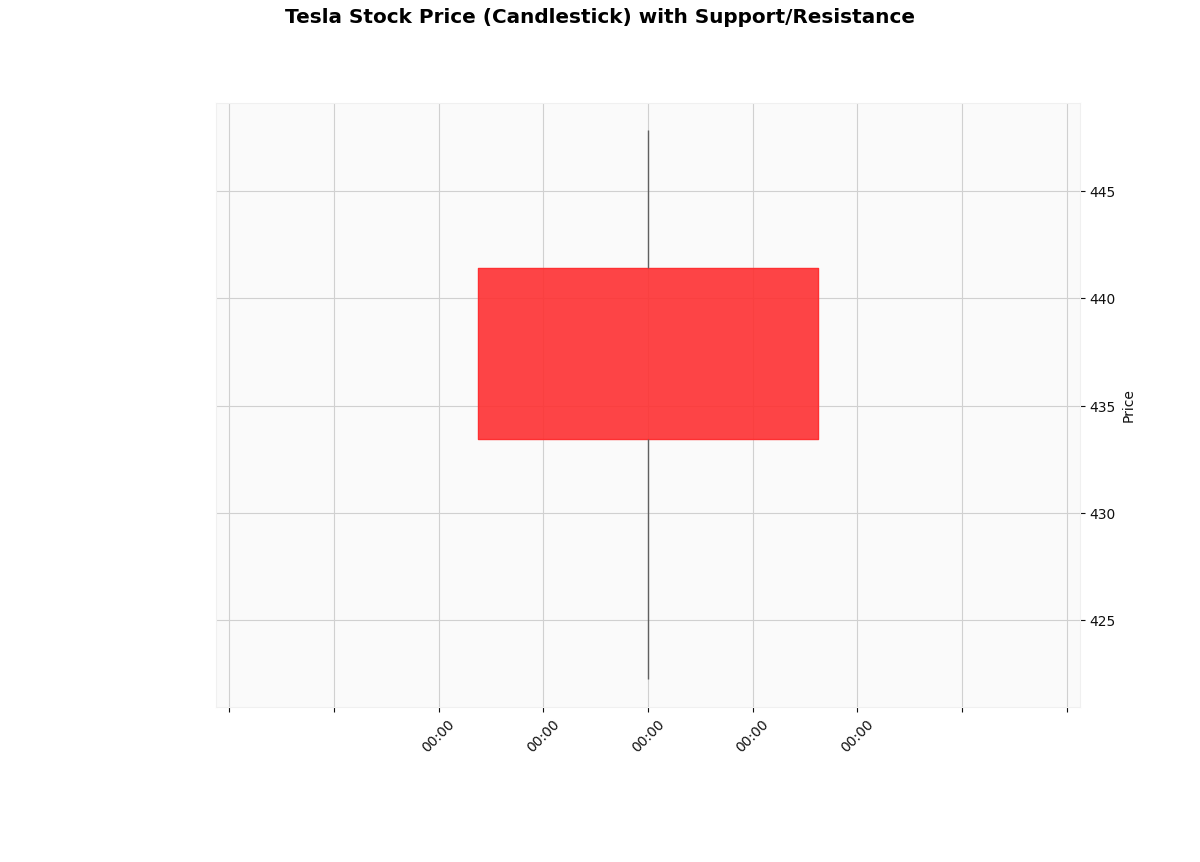
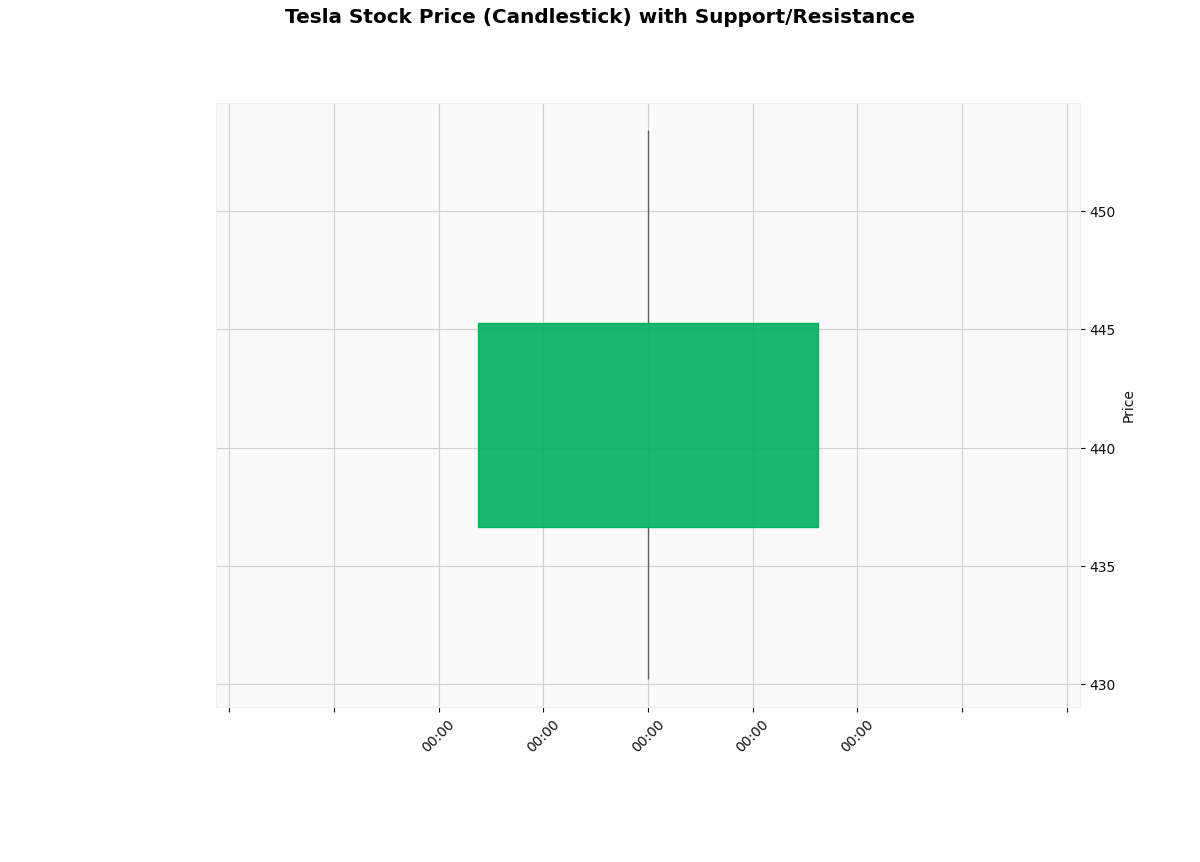
Daily update: Tesla stock chart and news

diff --git a/README.md b/README.md
@@ -69,7 +69,8 @@ For automated daily updates on GitHub, you need to set your API keys as **GitHub
 
 ## Tesla Stock Chart
 
-![Tesla Stock Chart](charts/tesla_stock_chart.png?20260513163857)
+![Tesla Stock Chart](charts/tesla_stock_chart.png?20260514162520)
+
 
 
 
@@ -337,7 +338,7 @@ For automated daily updates on GitHub, you need to set your API keys as **GitHub
 
 **[Tesla Investor Relations](https://ir.tesla.com/)**
 
-_Source: ir.tesla.com - Tesla's mission is to accelerate the world's transition to sustainable energy. Today, Tesla builds not only all-electric vehicles but also infinitely ..._
+_Source: ir.tesla.com - Tesla's mission is to accelerate the world's transition to sustainable energy. Today, Tesla ... Tesla Motors Corporate Presentation. Footer. Tesla © 2024 ..._
 
 **[Tesla Motors Announces Offerings of Common Stock and ...](https://ir.tesla.com/press-release/tesla-motors-announces-offerings-common-stock-and-convertible)**
 
@@ -346,10 +347,6 @@ _Source: ir.tesla.com - May 15, 2013 ... PALO ALTO, CA -- (Marketwired) -- 05/15
 **[Tesla Motors Launches Revolutionary Supercharger Enabling ...](https://ir.tesla.com/press-release/tesla-motors-launches-revolutionary-supercharger-enabling)**
 
 _Source: ir.tesla.com - Sep 24, 2012 ... Tesla revealed the locations of the first six Supercharger stations, which will allow the Model S to travel long distances with ultra fast charging._
-
-**[Press Releases | Tesla Investor Relations](https://ir.tesla.com/press)**
-
-_Source: ir.tesla.com - AUSTIN, Texas, April 22, 2026 – Tesla has released its financial results for the first quarter of 2026 by posting an update on its Investor Relations ..._
 
 **[Tesla Motors Releases Fourth Quarter & Full Year 2011 Financial ...](https://ir.tesla.com/press-release/tesla-motors-releases-fourth-quarter-full-year-2011-financial)**
 
@@ -371,7 +368,11 @@ _Source: ir.tesla.com - Jun 3, 2011 ... Tesla intends to use a portion of the ne
 
 _Source: ir.tesla.com - Jul 25, 2012 ... PALO ALTO, CA -- (Marketwire) -- 07/25/12 -- Tesla Motors, Inc. (NASDAQ: TSLA) today released its second quarter 2012 financial results by ..._
 
-**[Tesla Motors Announces Date for Second Quarter 2013 Financial ...](https://ir.tesla.com/press-release/tesla-motors-announces-date-second-quarter-2013-financial)**
+**[Press Releases | Tesla Investor Relations](https://ir.tesla.com/press)**
 
-_Source: ir.tesla.com - Jul 16, 2013 ... PALO ALTO, CA -- (Marketwired) -- 07/16/13 -- Tesla Motors, Inc. (NASDAQ: TSLA) announced today that it will post its financial results for ..._
+_Source: ir.tesla.com - AUSTIN, Texas, April 22, 2026 – Tesla has released its financial results for the first quarter of 2026 by posting an update on its Investor Relations ..._
+
+**[Tesla Motors Wins Three Stevie Awards in 9th Annual American ...](https://ir.tesla.com/press-release/tesla-motors-wins-three-stevie-awards-9th-annual-american)**
+
+_Source: ir.tesla.com - Jun 23, 2011 ... PALO ALTO, CA -- (MARKET WIRE) -- 06/23/11 -- Tesla Motors (NASDAQ: TSLA) announced today teslamotors.com was awarded three Stevie awards ..._
 